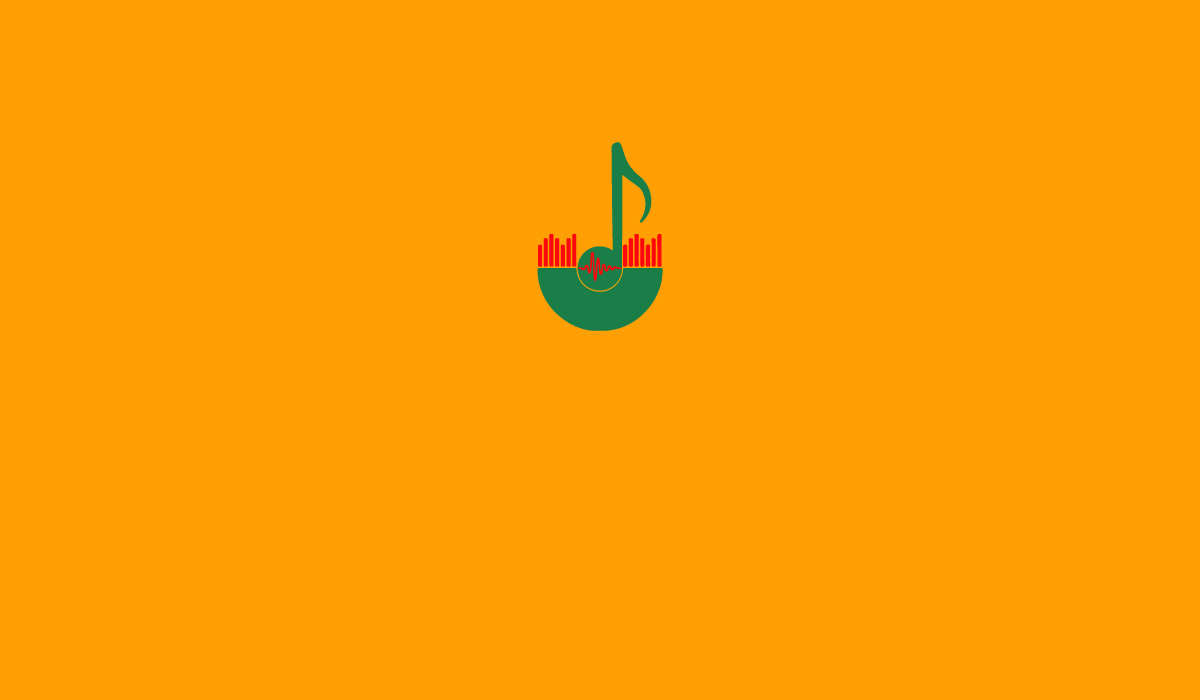
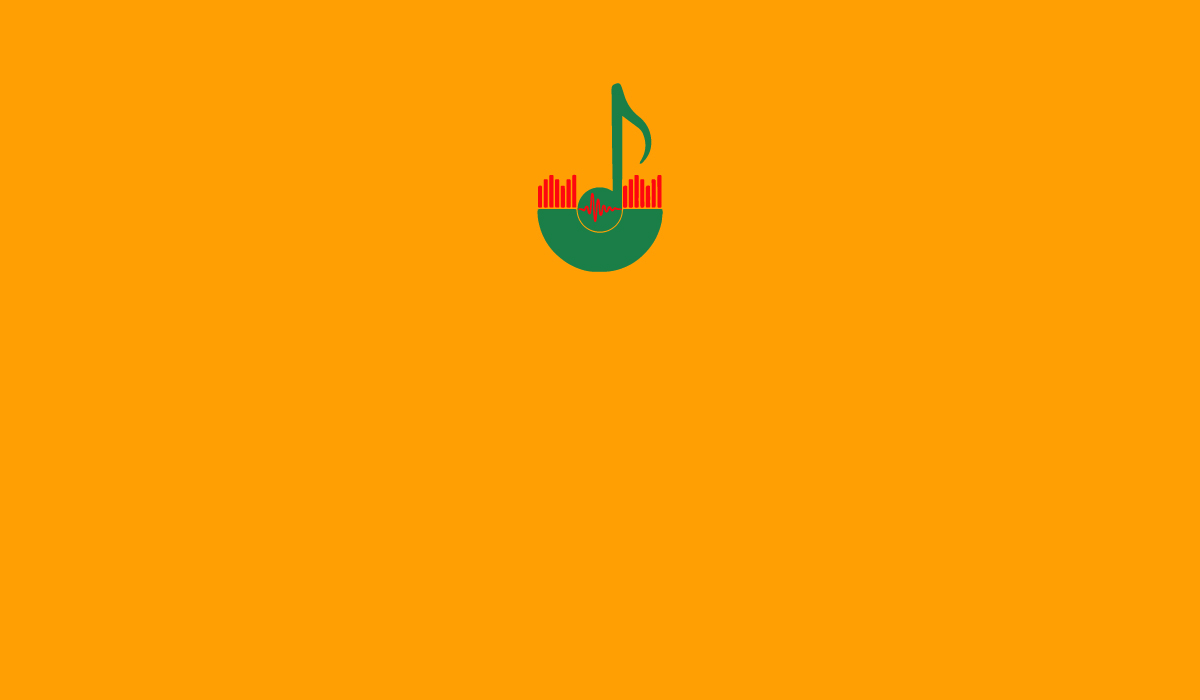
a

Changed region(s): [[0.4317, 0.12, 0.555, 0.48]]

diff --git a/index.html b/index.html
@@ -23,9 +23,9 @@
         background-image: url('COMING SOON.jpg');
         min-height: 100%;
         width: 100%;
-        height: auto;
+        height: 100;
         background-position: center;
-        background-size: cover;
+        background-size: auto;
     }
 
 </style>
